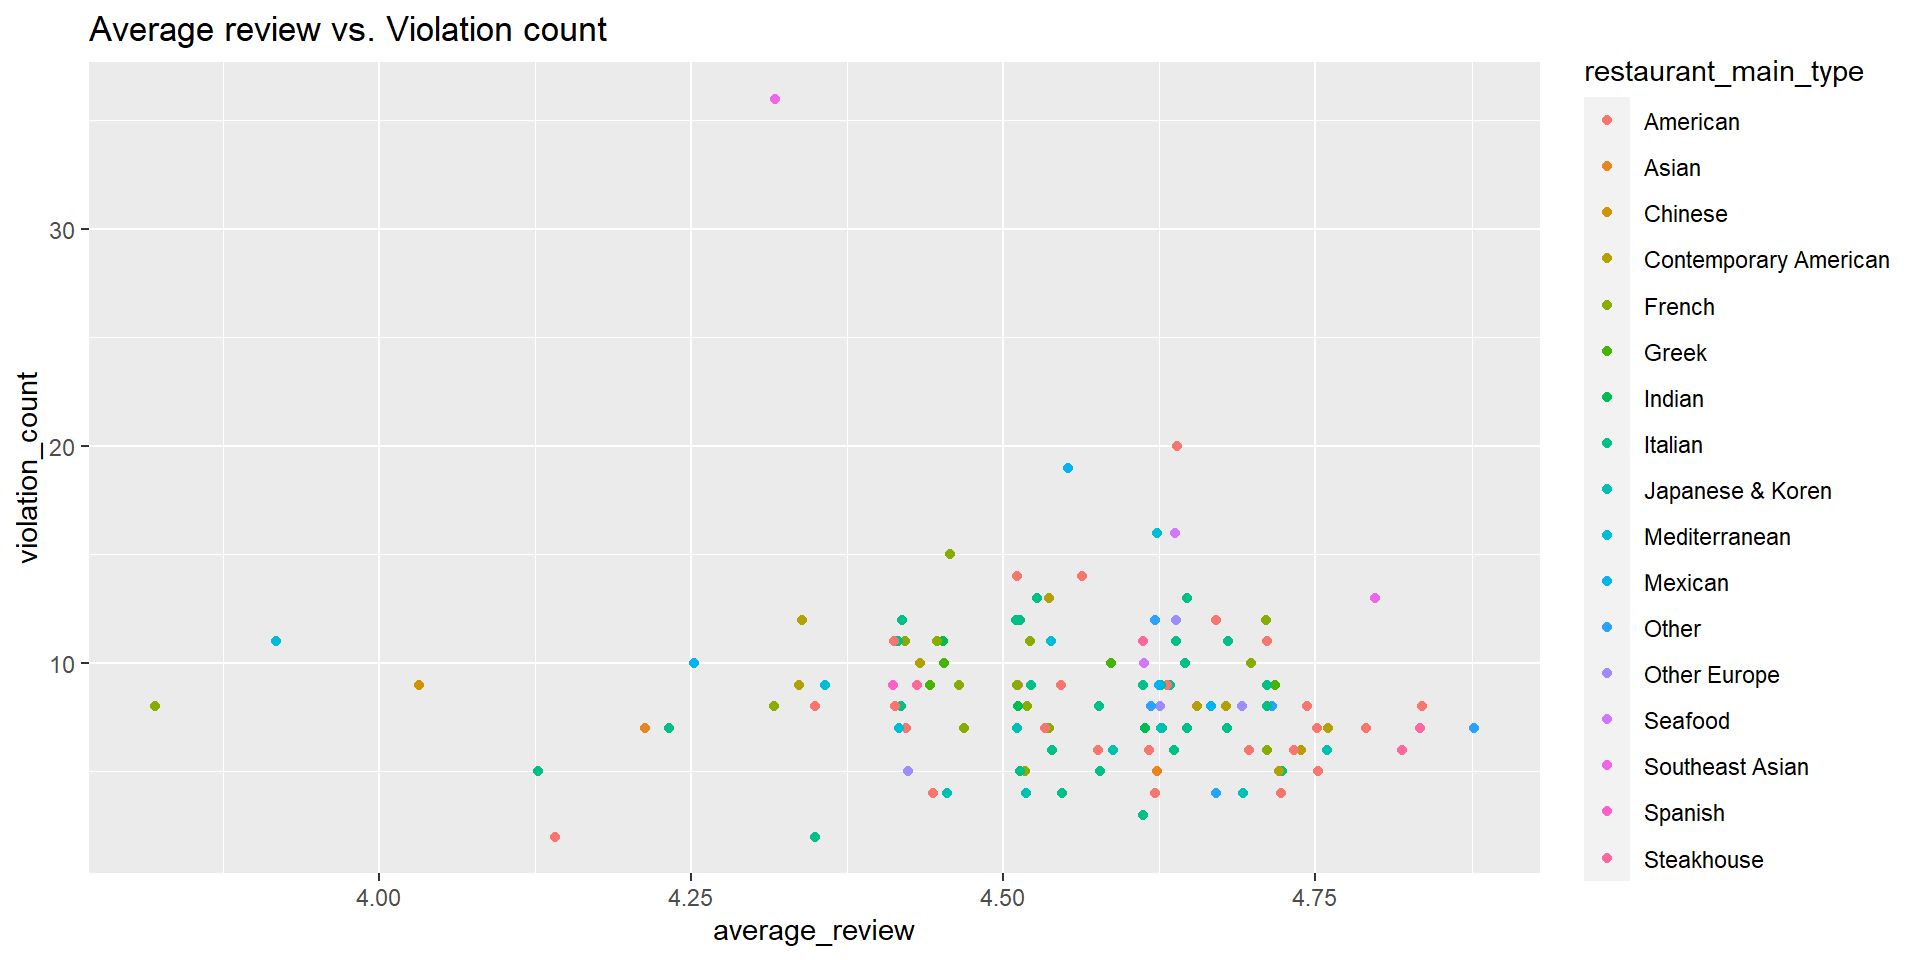
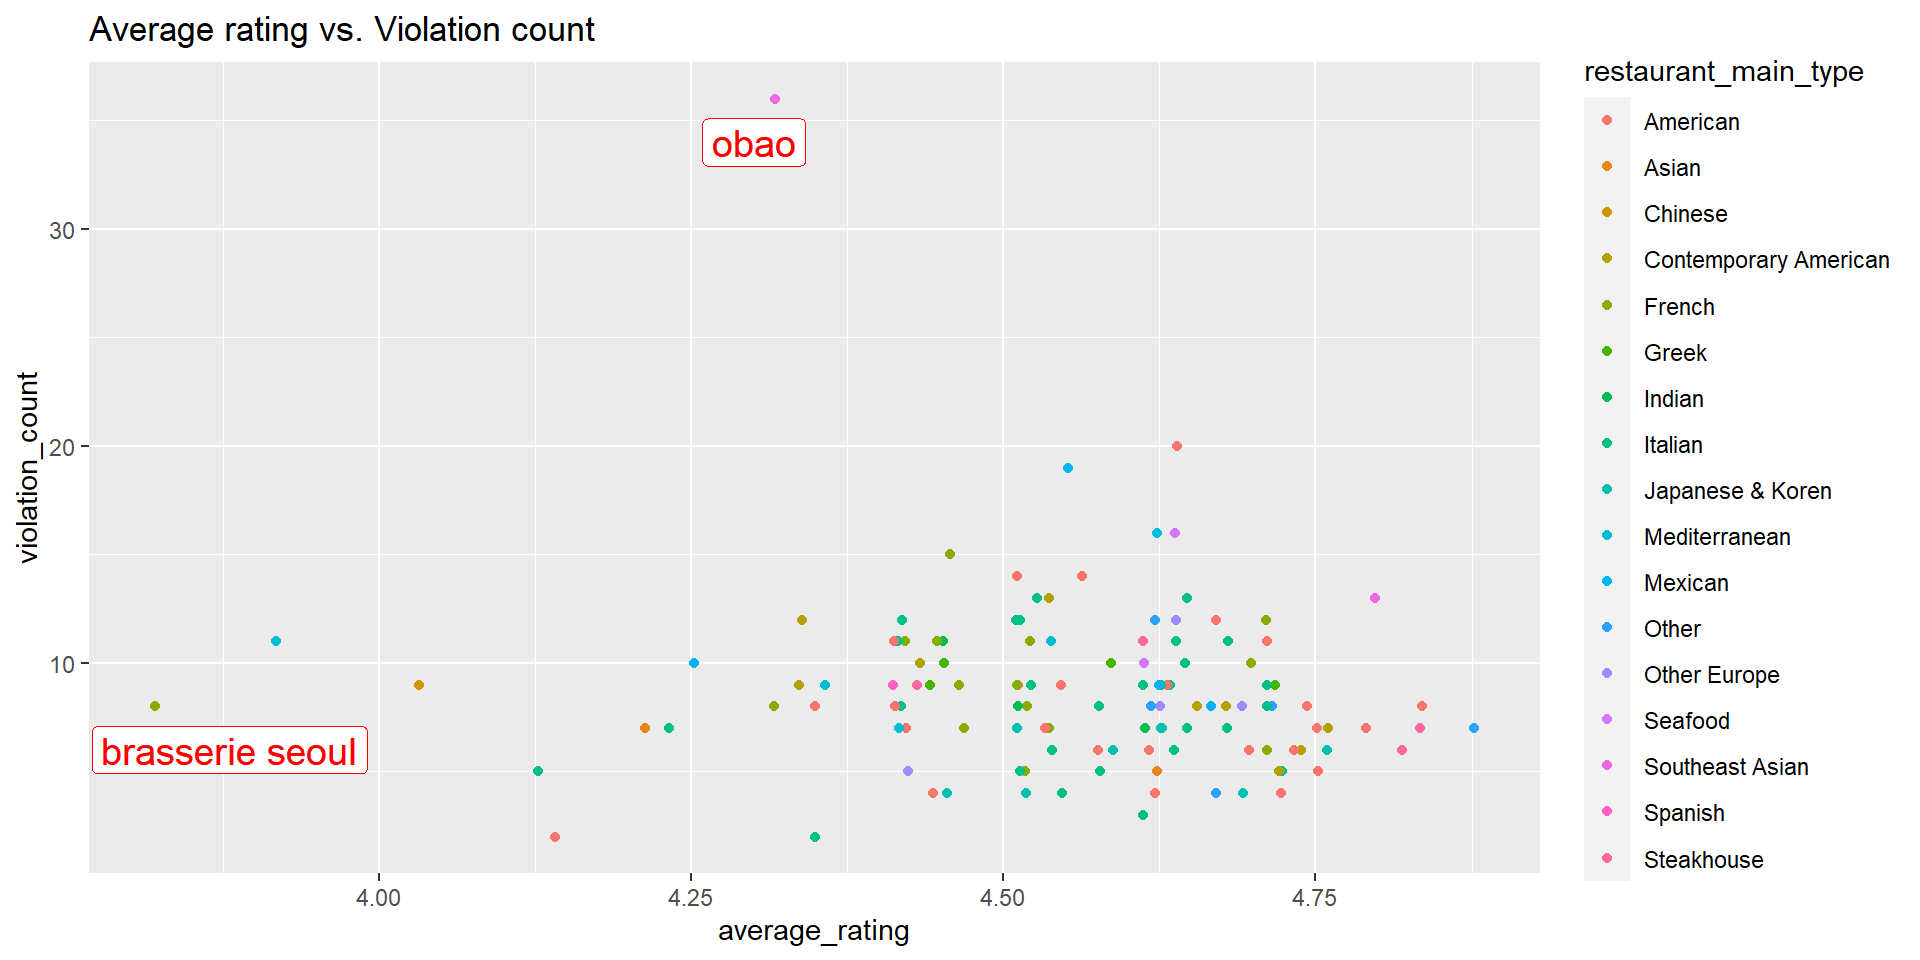
update results

diff --git a/docs/results.html b/docs/results.html
@@ -100,9 +100,16 @@
             <section class="normal" id="section-">
 <div id="results" class="section level1">
 <h1><span class="header-section-number">Chapter 5</span> Results</h1>
+<p>First, we’d like to see what are the main types of restaurants in NYC Restaurant Week. The following is a plot of the number count for each restaurant type.</p>
 <p><img src="finalproj_files/figure-html/unnamed-chunk-21-1.png" width="672" /></p>
+<p>Not to our surprise, Italian restaurants are the most common restaurants in NYC Restaurant Week, followed by American and Steakhouse.</p>
+<p>Then, we try to explore the relationship between restaurant average rating and inspection violation counts. To do that, we used <code>violation</code> created in data transformation, which contains both the restaurant ratings and the number of violations to plot the following scatterplot. Each restaurant is colored by their type.</p>
 <p><img src="finalproj_files/figure-html/unnamed-chunk-22-1.png" width="960" /></p>
+<p>There is a major cluster in the bottom-right section of the graph, from average review of 4.4 to 4.75, and violation count from 4 to 8. This cluster represents that most of the restaurants attending restaurant week have relatively high ratings and few violations. However, the graph does not show any linear relationship between average rating and violations. It is also noticeable that there is an outlying restaurant with many violations but relatively low rating, so we think customers should pay special attention to that restaurant. We also labeled the worst rated restaurant in our data.</p>
+<p>Meanwhile, we are interested in what types of restaurants have the most violations. So we plotted the following Cleveland dot plot.</p>
 <p><img src="finalproj_files/figure-html/unnamed-chunk-23-1.png" width="672" /></p>
+<p>As seen from above Southeast Asian restaurants have the most average violations over all the restaurant. We believe it is a reasonable result given the size of our data set and that Obao, the Southeast Asian restaurant, has abnormally more violation than other restaurants. Other than that, Seafood and Mexican restaurants have the second and third most violations. Most types of restaurants have around 5 to 10 violations.</p>
+<p>By the way, we are giving a big shoutout to Italian restaurants. They have the most numbers of restaurants, but lower average violations to most types of restaurants. Good job keeping that dishes clean, Italian restaurants!</p>
 <p><img src="finalproj_files/figure-html/unnamed-chunk-24-1.png" width="672" /></p>
 <p><img src="finalproj_files/figure-html/unnamed-chunk-25-1.png" width="672" /></p>
 <p><img src="finalproj_files/figure-html/unnamed-chunk-26-1.png" width="672" /></p>
